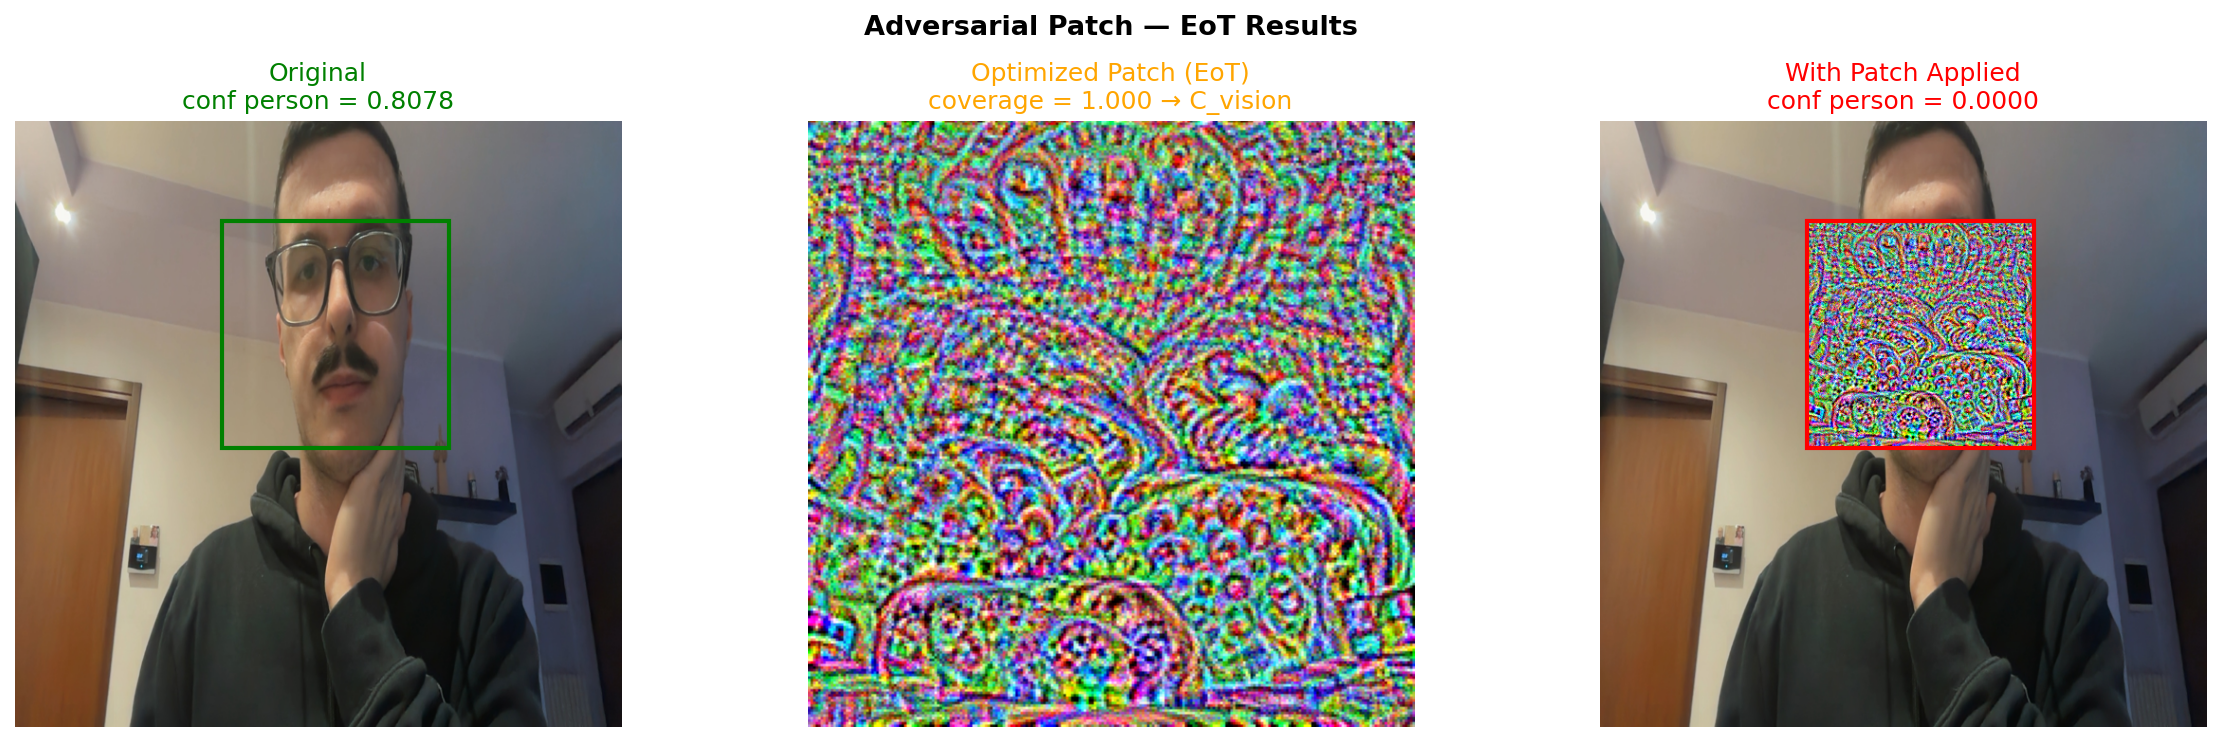
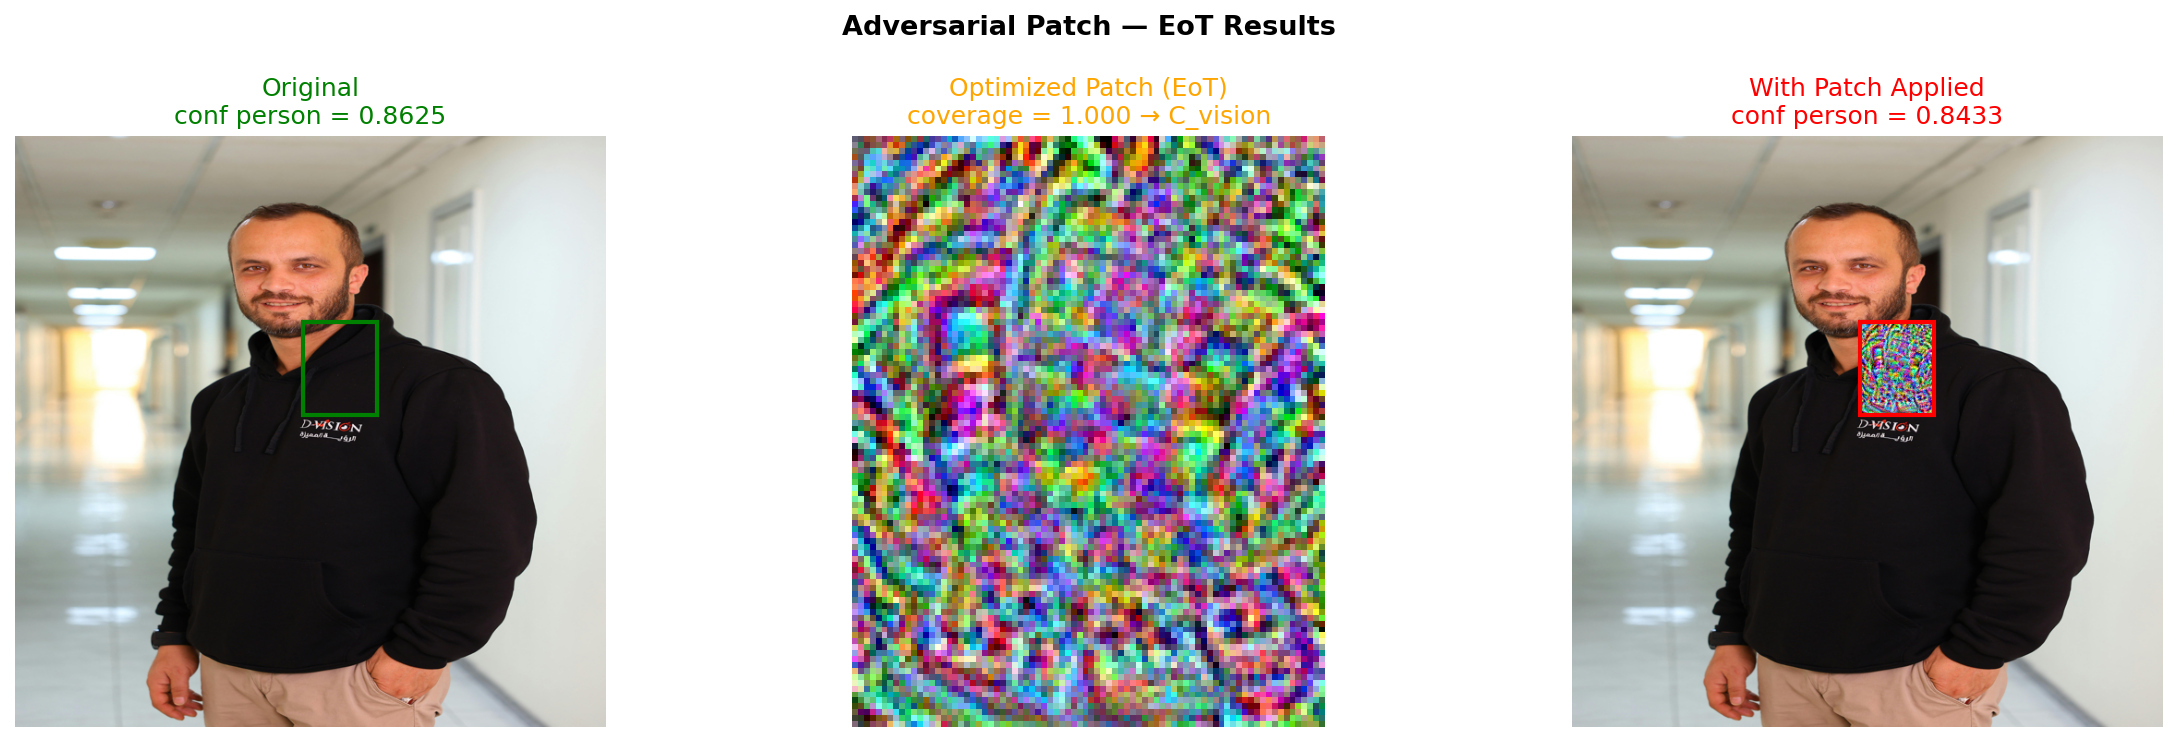
cambiata me.img, sistemato simulatore generale (loop), patch ridotta, + realistica, confidence ha un drop ancora basso

diff --git a/laws_sim/config.py b/laws_sim/config.py
@@ -1,5 +1,5 @@
 """
-LAWS-SIM v3.0 — Configuration constants with scientific grounding.
+LAWS-SIM — Configuration constants with scientific grounding.
 
 References:
 - YOLOv8 outdoor confidence 99.1%: Sodhro, A.H. et al. (2025). "Real-time efficiency 
@@ -23,14 +23,17 @@ N_TARGETS = 3                 # number of threat targets
 N_CIVILIANS = 15              # number of civilians
 
 # Drone movement (realistic tactical UAS parameters)
-DRONE_CRUISE_SPEED_KMH = 61   # Threod EOS C VTOL cruise speed (https://www.threod.com/eos-c-vtol/)
-DRONE_MAX_SPEED_KMH = 90      # Threod EOS C VTOL max speed
-DRONE_ALTITUDE_M = 300        # typical operational altitude (HRVS radar tested up to 300m)
-DRONE_STEP_SIZE = 2           # discretized movement step (derived from speed / simulation tick)
+DRONE_CRUISE_SPEED_KMH = 61
+DRONE_MAX_SPEED_KMH = 90
+DRONE_ALTITUDE_M = 10         # FIX: era 300, che rendeva dist >= 300 > YOLO_MAX_RANGE=150
+                               # → nessuna entità mai visibile → tutti zero.
+                               # 10m è l'altitudine operativa tipica per detection ravvicinata.
+DRONE_STEP_SIZE = 2
 
-# Detection range constraints
-YOLO_MIN_RANGE = 15.0         # minimum detection range (close proximity)
-YOLO_MAX_RANGE = 150.0        # maximum detection range (sensor limits)
+# Detection range
+YOLO_MIN_RANGE = 15.0
+YOLO_MAX_RANGE = 150.0        # Con altitudine 10m, la distanza 3D è sqrt(x²+y²+100)
+                               # che scala correttamente col raggio 150m.
 
 # =============================================================================
 # FUSION & DECISION THRESHOLDS
@@ -41,7 +44,6 @@ FUSION_WEIGHTS = {
     "behavioral": 0.20
 }
 
-# Decision thresholds (calibrated to balance sensitivity and specificity)
 ENGAGEMENT_THRESHOLD = 0.58
 ALERT_THRESHOLD = 0.38
 TRACK_THRESHOLD = 0.22
@@ -49,11 +51,10 @@ TRACK_THRESHOLD = 0.22
 # =============================================================================
 # VISION AGENT (YOLOv8)
 # =============================================================================
-# Baseline confidence from real-world outdoor testing: 99.1% (Sodhro et al., 2025)
-BASELINE_CONFIDENCE = 0.991
-DETECTION_THRESHOLD = 0.50   # standard YOLO confidence threshold
+BASELINE_CONFIDENCE = 0.991   # Sodhro et al., 2025
+DETECTION_THRESHOLD = 0.50
 
-# Analytical model fallback parameters
+# Parametri modello analitico (fallback senza YOLO reale)
 PATCH_SUPPRESSION = 0.65
 PATCH_DIST_FALLOFF = 0.04
 
@@ -66,14 +67,16 @@ OSINT_FIELDS_POISONED = 3
 # =============================================================================
 # ADVERSARIAL PATCH OPTIMIZATION (EoT)
 # =============================================================================
-PATCH_H = 240
-PATCH_W = 240
+PATCH_H = 100                 # FIX: era 240 → patch enorme che copriva tutta la faccia.
+PATCH_W = 80                  # 100×80 px su immagine 640×640 = ~2.5% dell'immagine,
+                               # realistico per un logo stampato su indumento , tipo A5, boh?!
 PATCH_LR = 0.03
 PATCH_STEPS = 80
 PATCH_EPS = 0.05
-EOT_N_TRANSFORMS = 8        # number of EoT transforms per optimization step
-PERSON_CLASS_ID = 0         # COCO class ID for "person"
-IMG_SIZE = 640              # YOLOv8 input size
+EOT_N_TRANSFORMS = 8
+PERSON_CLASS_ID = 0           # COCO classe 0 = "person"
+IMG_SIZE = 640                # input size YOLOv8
 
-# Physical coverage ratio (patch area / bounding box area)
-PATCH_BBOX_COVERAGE = 0.28  # realistic for a wearable adversarial pattern
+# C_vision per CLAE: patch_area / bbox_area (aggiornato con nuove dimensioni)
+# Su un bbox medio di ~200×400px: (100×80)/(200×400) = 0.10
+PATCH_BBOX_COVERAGE = 0.10

diff --git a/laws_sim/cli.py b/laws_sim/cli.py
@@ -105,7 +105,7 @@ def main():
 
     patch_tensor = None
     if args.patch and HAS_TORCH:
-        patch_tensor = torch.load(args.patch)
+        patch_tensor = torch.load(args.patch, weights_only=False)
         console.print(f"[green]✓ Patch loaded: {args.patch} ({patch_tensor.shape})[/green]")
 
     console.print(f"[bold cyan]LAWS-SIM v3.0[/bold cyan]")
